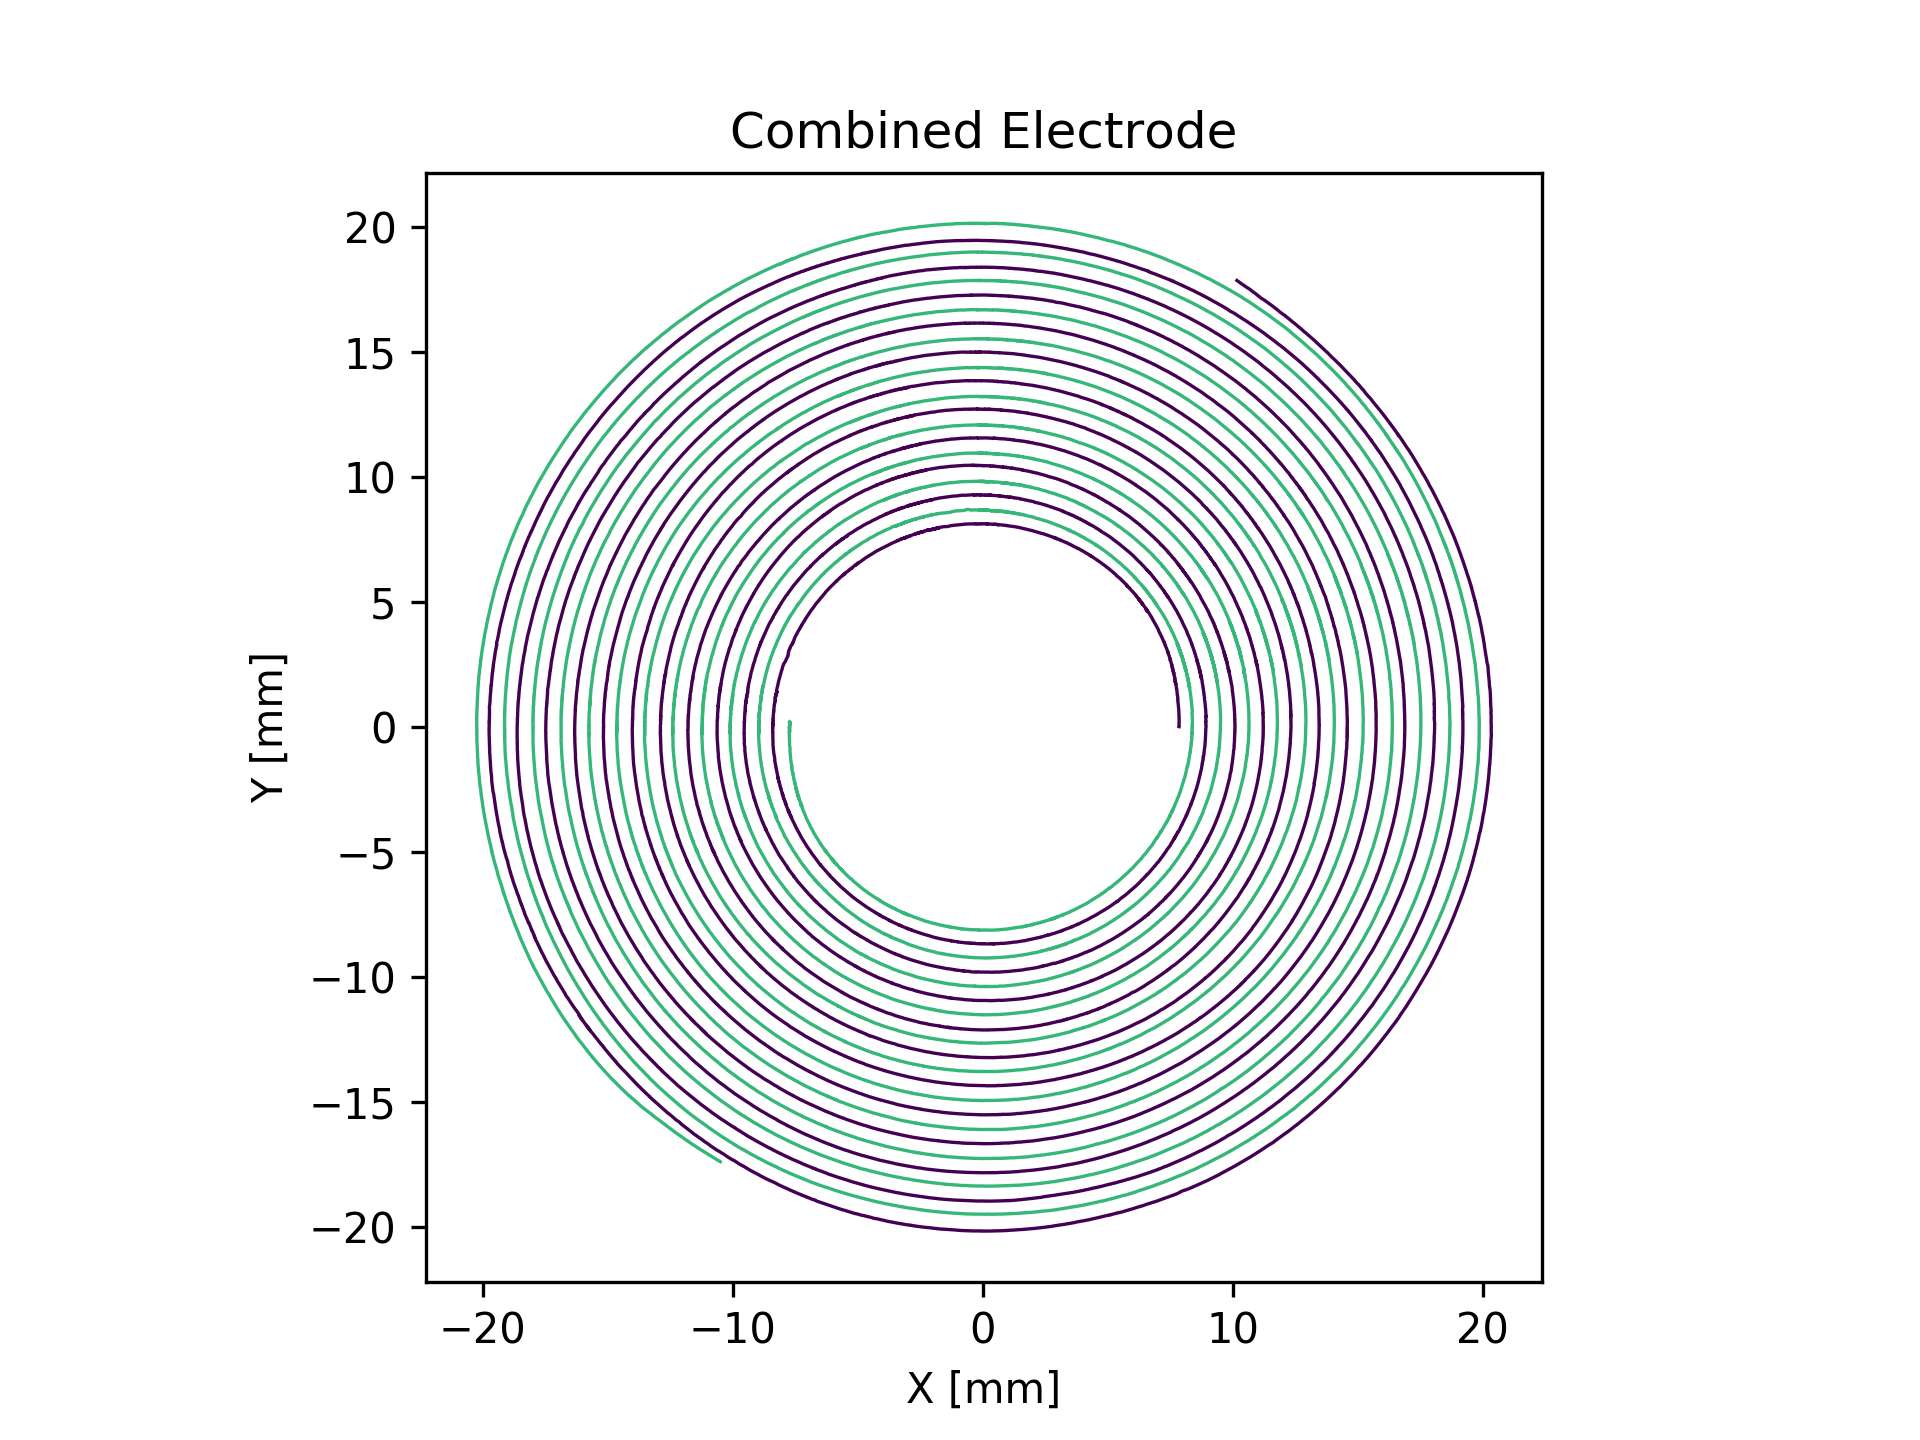
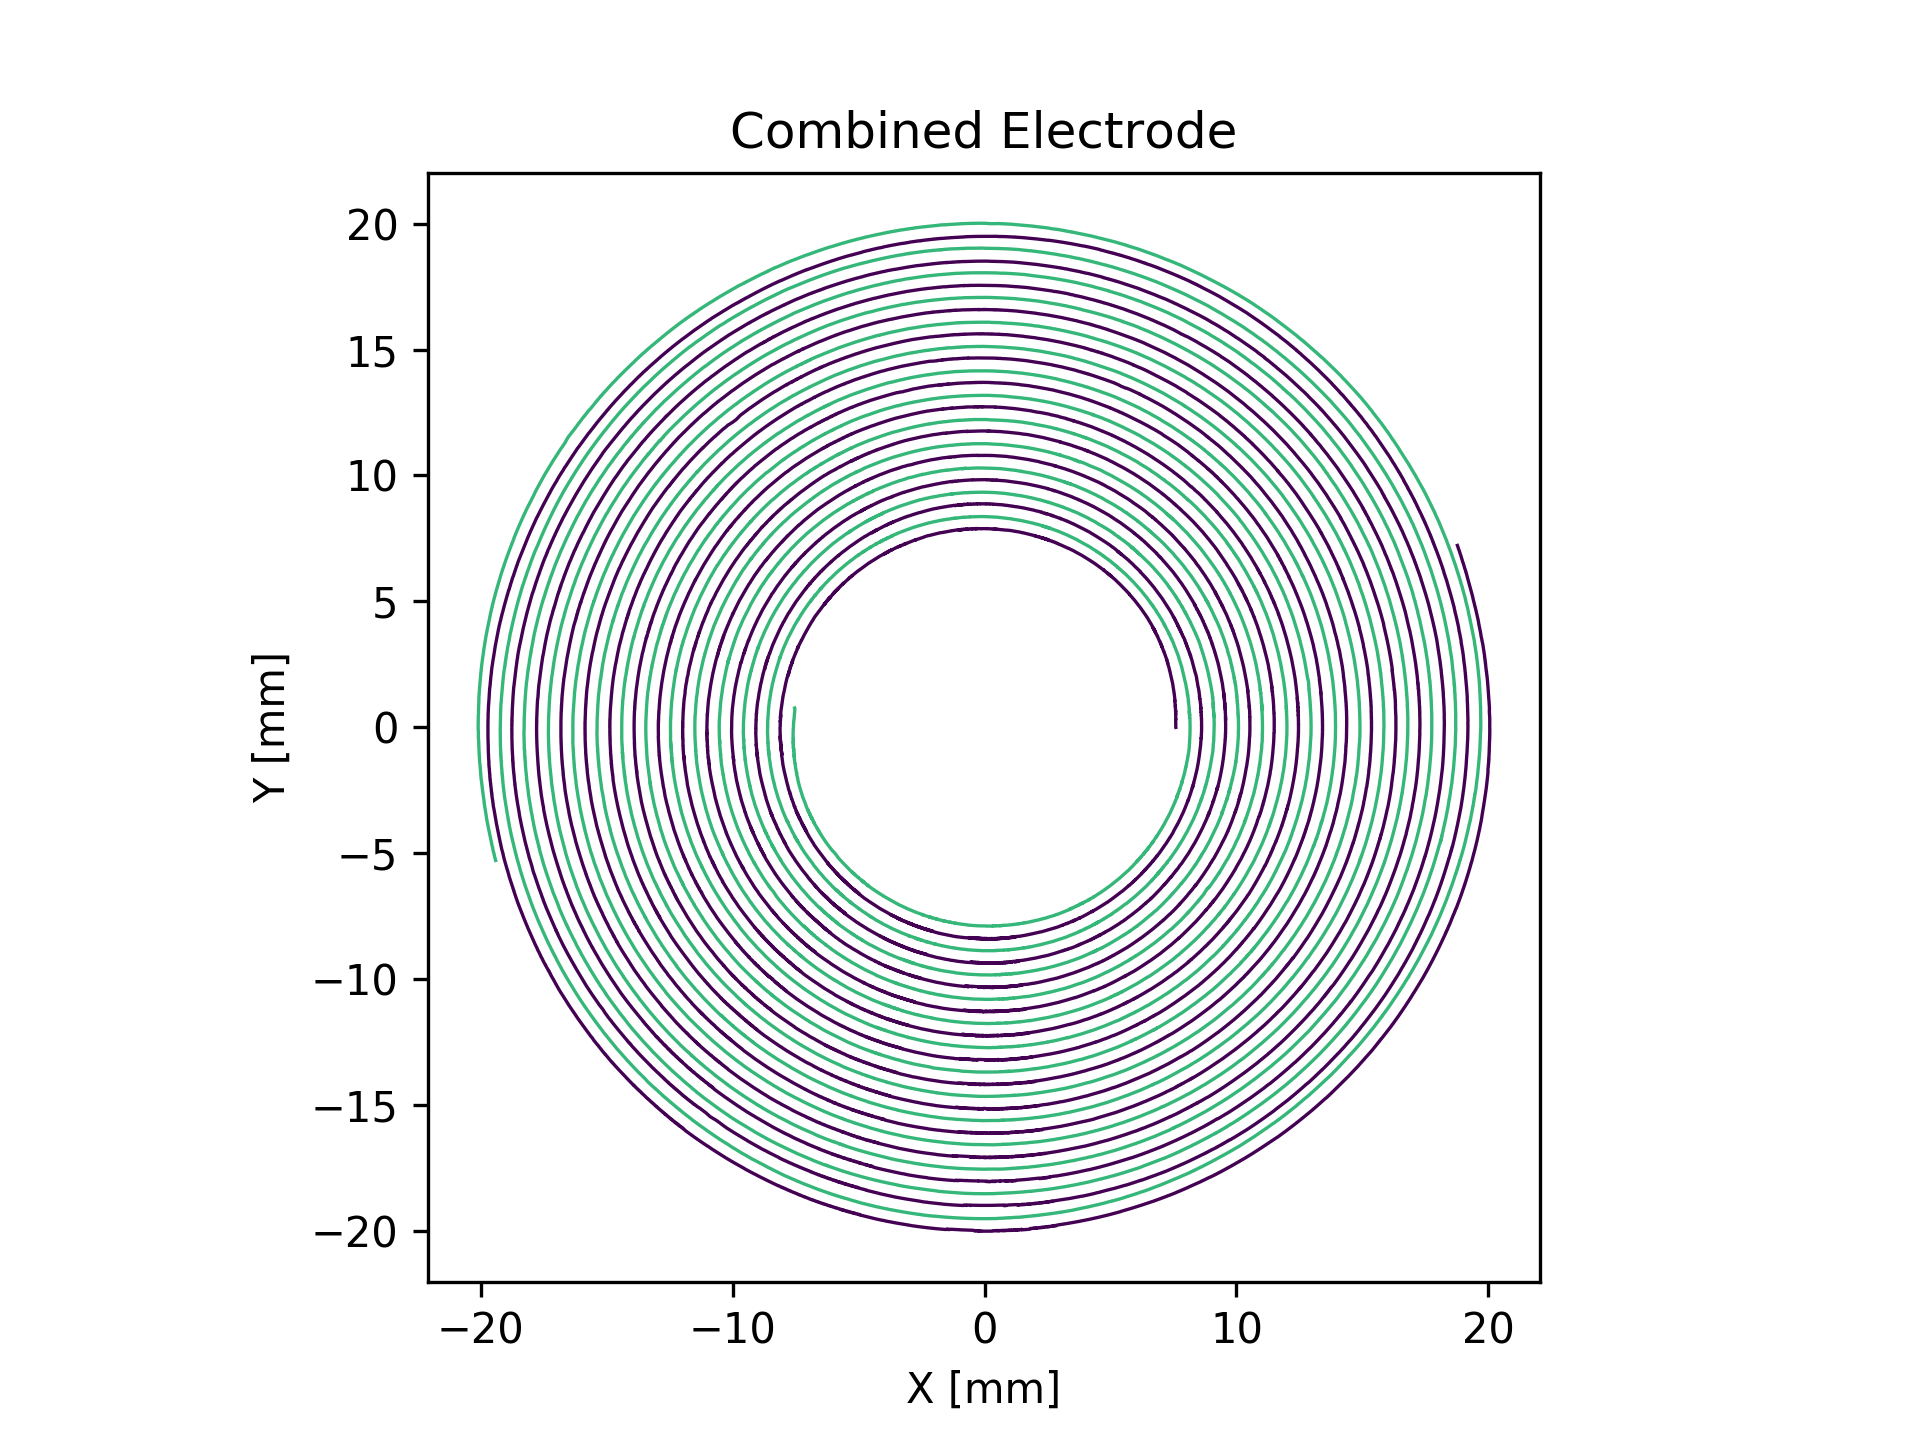
Band start detection, cutoff and interpolation

diff --git a/sectorImage/core/image.py b/sectorImage/core/image.py
@@ -87,7 +87,7 @@ class Image:
         thetaPlus_idx = int((thetaPlus + np.pi) / (2 * np.pi) * self.dimy)
         thetaMinus_idx = int((thetaMinus + np.pi) / (2 * np.pi) * self.dimy)
 
-        #c = tuple(midpoint)
+        # c = tuple(midpoint)
         cx, cy = midpoint
         c = (cx, cy)
 
@@ -136,7 +136,7 @@ class Image:
         # print('Coordinate transformation completed in ', str(round(time.time() - t0, 2)), 's')
         return transformed, angles, radii
 
-    def detectFeatures(self, matrix, plot=False):
+    def detectFeatures(self, matrix, thresh_std=.5, plot=False):
         """
         Distinguish band from background in binary matrix
 
@@ -156,7 +156,7 @@ class Image:
         """
         # t0 = time.time()
         start_range = 2000
-        end_range = np.shape(matrix)[1] - start_range
+        # end_range = np.shape(matrix)[1] - start_range
         # Initializing Empty array in Memory
         proc = np.empty(np.shape(matrix))
         start_search = np.empty(np.shape(matrix))[:, :start_range]
@@ -166,32 +166,41 @@ class Image:
         # Gaussian Blur to remove fast features
 
         cv2.GaussianBlur(src=matrix, ksize=(0, 3), dst=proc, sigmaX=3, sigmaY=0)
-        cv2.GaussianBlur(src=matrix[:, :start_range], ksize=(3, 0), dst=start_search, sigmaX=0, sigmaY=3)
+        # cv2.GaussianBlur(src=matrix[:, :start_range], ksize=(3, 0), dst=start_search, sigmaX=0, sigmaY=3)
 
-        cv2.GaussianBlur(src=matrix[:, start_range:], ksize=(3, 0), dst=end_search, sigmaX=0, sigmaY=1)
-
+        # cv2.GaussianBlur(src=matrix[:, start_range:], ksize=(31, 11), dst=end_search, sigmaX=0, sigmaY=0.1)
+        start_search = matrix[:, :start_range]
+        end_search = matrix[:, start_range:]
         # print('Convolving')
         # Convolving with Prewitt kernel in x-direction
         prewitt_kernel_x = np.array([[1, 0, -1], [1, 0, -1], [1, 0, -1]])
-        kernel_y_width = 30
+        kernel_y_width = 15
         prewitt_kernel_y = np.array([[1] * kernel_y_width, [0] *
                                      kernel_y_width, [-1] * kernel_y_width])
 
+        # prewitt_kernel_y_element = np.tile(np.ones(kernel_y_width), (15, 1))
+        # prewitt_kernel_y_end = np.concatenate((prewitt_kernel_y_element, np.zeros(15), -1 * prewitt_kernel_y_element))
         # print(prewitt_kernel_y_end)
-        cv2.threshold(src=start_search, dst=start_search, thresh=100, maxval=255, type=cv2.THRESH_TOZERO)
-        ndimage.minimum_filter(start_search, size=(15, 1), output=start_search)
+
+        # print(prewitt_kernel_y_end)
+        cv2.threshold(src=start_search, dst=start_search, thresh=20, maxval=255, type=cv2.THRESH_TOZERO)
+        ndimage.minimum_filter(start_search, size=(15, 15), output=start_search)
+        cv2.GaussianBlur(src=start_search, ksize=(11, 0), dst=start_search, sigmaX=0, sigmaY=5)
         cv2.filter2D(src=start_search, kernel=prewitt_kernel_y, dst=start_search, ddepth=-1)
 
         cv2.threshold(src=end_search, dst=end_search, thresh=20, maxval=255, type=cv2.THRESH_TOZERO)
-        ndimage.minimum_filter(end_search, size=(15, 1), output=end_search)
+        ndimage.minimum_filter(end_search, size=(15, 15), output=end_search)
+        cv2.GaussianBlur(src=end_search, ksize=(11, 11), dst=end_search, sigmaX=0, sigmaY=5)
         cv2.filter2D(src=end_search, kernel=prewitt_kernel_y, dst=end_search, ddepth=-1)
 
         cv2.filter2D(src=proc, kernel=prewitt_kernel_x, dst=proc, ddepth=-1)
+        cv2.GaussianBlur(src=proc, ksize=(11, 0), dst=proc, sigmaX=0, sigmaY=5)
 
         np.abs(start_search, out=start_search)
         np.abs(end_search, out=end_search)
 
         np.abs(proc, out=proc)
+        filtered = np.copy(proc)
 
         start_amp = start_search.max()
         start_idx = np.unravel_index(start_search.argmax(), start_search.shape)
@@ -204,27 +213,17 @@ class Image:
             ey += start_range
         end_idx = (ex, ey)
         end = (end_idx, end_amp)
-        del start_search
-        print(self.id)
-        print(end)
-        print()
-        # del end_search
-        # print('Thresholding')
 
-        # Threshold to 30% for noise reduction
-        #proc *= proc * (1.0 / proc.max())
-        # proc *= (1.0 / proc.max())
+        del start_search
+        del end_search
+        # print('Thresholding')
         proc_mean = np.mean(proc)
         proc_std = np.std(proc)
-        thresh = proc_mean + 0.1 * proc_std
-        #thresh = 0.1
-        cv2.threshold(src=proc, dst=proc, thresh=thresh, maxval=1, type=cv2.THRESH_BINARY)
 
-        # print('Morphology')
-        # Increase Noise reduction through binary morphology
-        morph_kernel = np.ones((5, 5), np.uint8)
-        cv2.morphologyEx(src=proc, dst=proc, op=cv2.MORPH_OPEN, iterations=1, kernel=morph_kernel)
-        cv2.morphologyEx(src=proc, dst=proc, op=cv2.MORPH_CLOSE, iterations=1, kernel=morph_kernel)
+        thresh = proc_mean + thresh_std * proc_std
+        # thresh = proc_mean
+        # thresh = 0.1
+        cv2.threshold(src=proc, dst=proc, thresh=thresh, maxval=1, type=cv2.THRESH_BINARY)
 
         proc = proc.astype(np.uint8, copy=False)
 
@@ -255,7 +254,7 @@ class Image:
             print('Plotting')
             fig = plt.figure()
             ax = fig.add_subplot(111)
-            ax.imshow(end_search)
+            ax.imshow(filtered)
             ax.set_aspect('auto')
             ax.set_xlabel('Radius [px]')
             ax.set_ylabel('Angle [idx]')

diff --git a/sectorImage/core/stitcher.py b/sectorImage/core/stitcher.py
@@ -139,9 +139,9 @@ class Stitcher:
 
         return segments
 
-    def getNearestSegment(self, refPoint, segments):
+    def getNearestSegment(self, refPoint, segments, fraction=1):
         r0 = refPoint[1]
-        dr_min = np.array([np.min(np.abs(s.rs - r0)) for s in segments])
+        dr_min = np.array([np.min(np.abs(s.rs[:int(fraction * (len(s.rs) - 1))] - r0)) for s in segments])
         return segments[np.argmin(dr_min)], np.min(dr_min)
 
     def combineSegments(self, segments, plot=False):
@@ -201,11 +201,14 @@ class Stitcher:
                 # Connect EP to candiate
                 ep = combined[-1].ep
                 nearest_seg, dr = self.getNearestSegment(ep, candidates)
+
                 if dr > 3.0:
+                    # if dr > 10.0 and (dr > 100 and ep[1] > 3000):
                     print(_C.BLUE + 'Breaking left' + _C.ENDC)
                     Lbreak += 1
                     if Lbreak > 1:
-                        skipFlag = True
+                        pass
+                        # skipFlag = True
                     break
 
                 combined.append(nearest_seg)
@@ -238,10 +241,11 @@ class Stitcher:
                 lp = combined[-1].lp
                 nearest_seg, dr = self.getNearestSegment(lp, candidates)
                 if dr > 3.0:
-                    print(_C.BLUE + 'Breaking left' + _C.ENDC)
+                    print(_C.BLUE + 'Breaking right' + _C.ENDC)
                     Rbreak += 1
                     if Rbreak > 1:
-                        skipFlag = True
+                        pass
+                        # skipFlag = True
                     break
 
                 combined.append(nearest_seg)
@@ -266,11 +270,47 @@ class Stitcher:
         order = np.argsort(avgR)
         bands = np.array(bands)[order]
 
+        fig = plt.figure()
+        ax = fig.add_subplot(111)
+
+        band_segments = [Segment(b[0], b[1], imgNum=0, bandNum=0, identity=i) for i, b in enumerate(bands)]
+
+        band_groups = []
+        for b in band_segments:
+            ep = b.ep
+            others = [s for s in band_segments if s.identity != b.identity]
+            print(ep)
+            nearest_band, dr = self.getNearestSegment(b.ep, others, fraction=(1 / len(self.fns)))
+            print(dr)
+            if dr < 3.0:
+                contained = False
+                for g in band_groups:
+                    if b.identity in g:
+                        g.append(nearest_band.identity)
+                        contained = True
+                        break
+                    elif nearest_band.identity in g:
+                        g.append(b.identity)
+                        contained = True
+                        break
+                if not contained:
+                    band_groups.append([b.identity, nearest_band.identity])
+            else:
+                band_groups.append([b.identity])
+            ax.plot(b.phis, b.rs, lw=0.2)
+        print(band_groups)
+        max_group = max(band_groups, key=len)
+        max_bands = [b for b in band_segments if b.identity in max_group]
+        for b in max_bands:
+            # ax.plot(b.phis, b.rs, lw=0.2)
+            pass
+        fig.savefig('bands_debug.png', dpi=300)
+
         compP = np.empty(0)
         compR = np.empty(0)
-        for i, b in enumerate(bands):
-            compR = np.append(compR, b[1])
-            phi = b[0] + i * chirality * 2 * np.pi
+        for i, b in enumerate(max_bands):
+            compR = np.append(compR, b.rs)
+            phi = b.phis + i * chirality * 2 * np.pi
             compP = np.append(compP, phi)
         order = np.argsort(compP)
         compP = compP[order]
@@ -280,9 +320,9 @@ class Stitcher:
             compP = np.empty(0)
             compR = np.empty(0)
             chirality *= -1
-            for i, b in enumerate(bands):
-                compR = np.append(compR, b[1])
-                phi = b[0] + i * chirality * 2 * np.pi
+            for i, b in enumerate(max_bands):
+                compR = np.append(compR, b.rs)
+                phi = b.phis + i * chirality * 2 * np.pi
                 compP = np.append(compP, phi)
             order = np.argsort(compP)
             compP = compP[order]
@@ -291,9 +331,10 @@ class Stitcher:
         compP = chirality * compP[::chirality]
 
         self.startAngle = chirality * self.startAngle
+
         self.endAngle = (chirality * -1 + 1) * np.pi + (chirality * self.endAngle)
-        print(self.startAngle)
-        print(self.endAngle)
+        # print(self.startAngle)
+
         while True:
             self.endAngle += 2 * np.pi
             test_idx = np.argmax(compP > self.endAngle)
@@ -301,9 +342,10 @@ class Stitcher:
                 self.endAngle -= 2 * np.pi
                 end_idx = np.argmax(compP > self.endAngle)
                 break
+        print(len(compP))
+        print(end_idx)
 
         start_idx = np.argmax(compP > self.startAngle)
-
         if start_idx == 0:
             print('Unraveling Start Angle')
             self.startAngle += 2 * np.pi

diff --git a/applied/pair.py b/applied/pair.py
@@ -7,6 +7,7 @@ import time
 
 import numpy as np
 from scipy import optimize
+from scipy import ndimage
 
 import matplotlib.pyplot as plt
 from tools.colors import Colors as _C
@@ -44,7 +45,11 @@ class Pair:
         max_phis = []
         for i, e in enumerate(self.electrodes[:]):
             data = (np.abs(e.phis[::e.chirality]), e.rs[::e.chirality])
-            pnew, rnew = self.optimizeLinearity(data)
+            popt, ropt = self.optimizeLinearity(data)
+            pnew, rnew = self.smoothing((popt, ropt))
+            print(rnew)
+            print(pnew)
+            print()
             phiAbs = np.abs(pnew)
             npts = len(phiAbs)
             lengths.append(npts)
@@ -203,6 +208,35 @@ class Pair:
         phin += shift
 
         return (phin, rn)
+
+    def smoothing(self, data):
+        phis, rs = data
+        W = 10  # Window size
+        nrows = rs.size - W + 1
+        n = rs.strides[0]
+        a2D = np.lib.stride_tricks.as_strided(rs, shape=(nrows, W), strides=(n, n))
+        out = np.std(a2D, axis=1)
+        cutoff = np.argmax(out > 0.015)
+        rbase = rs[:cutoff]
+        rend = rs[cutoff:]
+
+        delta_base = rbase[:-1] - rbase[1:]
+        delta_base_std = np.std(delta_base)
+        delta_base_avg = np.mean(np.abs(delta_base))
+
+        smoothed_section = np.ones(len(rs) - cutoff) * rbase[-1]
+        last_true = 0
+        for i, pt in enumerate(rend[1:]):
+            if abs(pt - smoothed_section[i - 1]) < delta_base_avg + 3 * delta_base_std:
+                smoothed_section[i] = pt
+                last_true = i
+            else:
+                smoothed_section[i] = smoothed_section[i - 1]
+
+        fixed_r = np.append(rbase, smoothed_section[:last_true])
+        fixed_p = phis[:len(fixed_r)]
+
+        return fixed_p, fixed_r
 
     def plot(self):
         fig = plt.figure()

diff --git a/applied/sequence.py b/applied/sequence.py
@@ -174,7 +174,7 @@ class Sequence:
         pair = Pair(env=env, electrodes=(electrode1, electrode2), serial=serial)
         return pair
 
-    def measureOffsite(self, n=16, directory1='hardware/negative', directory2='hardware/positive'):
+    def measureOffsite(self, n=16, directory1='hardware/positive', directory2='hardware/negative'):
         serial = 'RD-OFFSITE'
         print(_C.CYAN + _C.BOLD + 'Evaluating electrode 1' + _C.ENDC)
         spiral, calibration = CombinedSequence(n=n, directory=directory1, env=env)

diff --git a/applied/main.py b/applied/main.py
@@ -11,9 +11,9 @@ from pair import Pair
 def main():
     s = Sequence(offsite=True)
     s.prime()
-    pair = s.measure(n=16)
-    pair.store()
-    # pair = Pair('CSAT_LARGO.h5', fromFile=True, corrections=True)
+    #pair = s.measure(n=16)
+    # pair.store()
+    pair = Pair('CSAT_RD-OFFSITE.h5', fromFile=True, corrections=True)
     pair.plot()
     s.disable()
 
